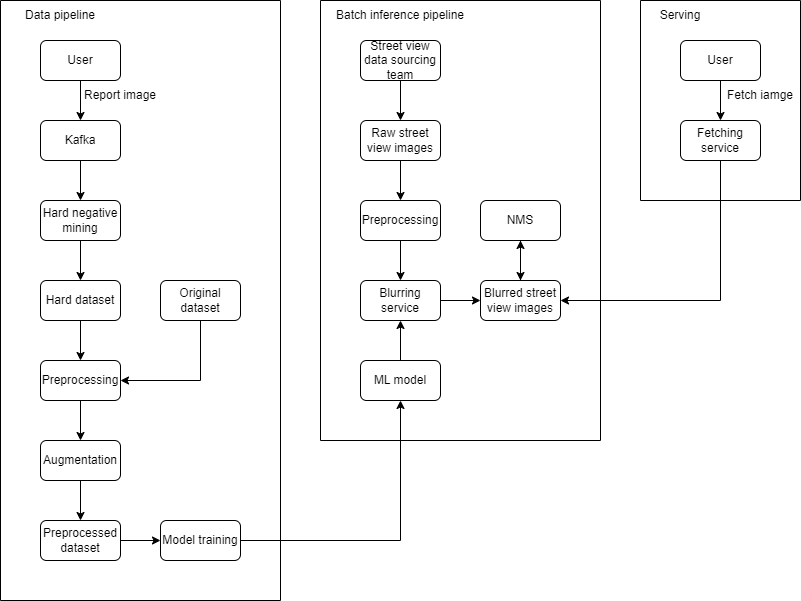
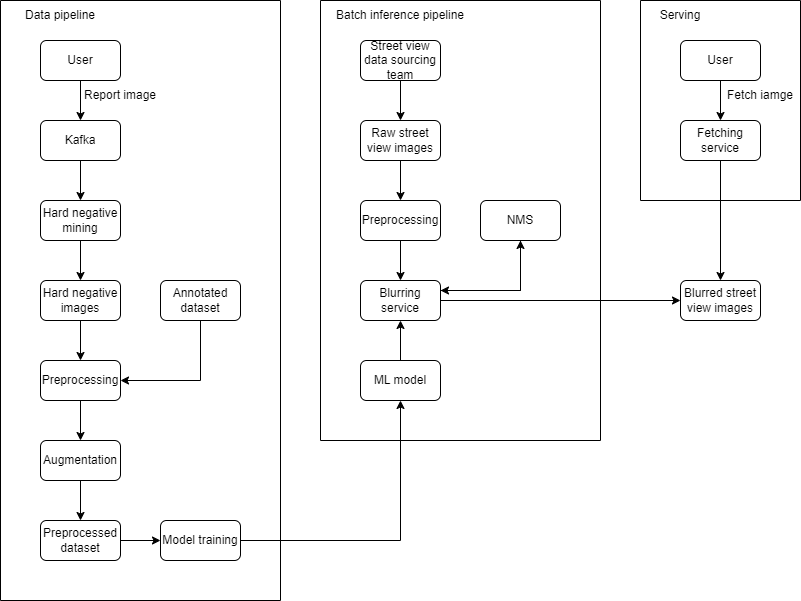
Update Model selection notes

diff --git a/machine-learning/2.1-google-street-view-blurring-system.html b/machine-learning/2.1-google-street-view-blurring-system.html
@@ -205,11 +205,13 @@
         </ul>
         <li>Region proposal network (RPN)</li>
         <ul>
+          <li>Regression task to detect objects</li>
           <li>Based on neural network</li>
           <li>Takes feature map and produces candidate regions in the image</li>
         </ul>
         <li>Classifier</li>
         <ul>
+          <li>Classification task to assign objects to classes</li>
           <li>Based on neural network</li>
           <li>Takes feature map and candidate regions, and assigns an object class to each region</li>
         </ul>
@@ -292,11 +294,14 @@
 
     <h3 class="card-title">Online</h3>
     <ul>
-      <li>Number of user reports</li>
-      <li>Human annotators to check the blurred images</li>
+      <li>Number of user reports and complaints</li>
+      <li>Human annotators to spot check the percentage of incorrectly blurred images</li>
     </ul>
 
     <h3 class="card-title">Business</h3>
+    <ul>
+      <li>Reduction in legal fees from people suing for copyright violations</li>
+    </ul>
   </div>
   <div class="card-footer text-muted">
     Reference: Machine Learning System Design Interview, Ali Aminian & Alex Xu
@@ -312,25 +317,6 @@
     <img class="img-fluid" class="card-img-top" src="/machine-learning/machine-learning-system-design/google-street-view-blurring-system1.png" alt="Card image cap">
 
     <ul>
-      <li>Batch inference pipeline</li>
-      <ul>
-        <li>Non-max suppression (NMS)</li>
-        <ul>
-          <li>Keep one bounding box out of many overlapping bounding boxes</li>
-        </ul>
-        <li>Preprocessing</li>
-        <ul>
-          <li>CPU intensive task</li>
-        </ul>
-        <li>Blurring service</li>
-        <ul>
-          <li>GPU intensive task</li>
-          <li>Identify all objects in the image</li>
-          <li>Resolve overlapping bounding boxes using NMS</li>
-          <li>Blur objects of interest</li>
-          <li>Store blurred images</li>
-        </ul>
-      </ul>
       <li>Data pipeline</li>
       <ul>
         <li>Hard negative mining</li>
@@ -343,9 +329,52 @@
           <li>Resize, scale, normalize</li>
         </ul>
       </ul>
+      <li>Batch inference pipeline</li>
+      <ul>
+        <li>Non-max suppression (NMS)</li>
+        <ul>
+          <li>Keep one bounding box out of many overlapping bounding boxes</li>
+        </ul>
+        <li>Preprocessing</li>
+        <ul>
+          <li>CPU intensive task</li>
+          <li>Seperated from blurring service</li>
+          <ul>
+            <li>CPU and GPU intensive tasks can be scaled independently</li>
+            <li>Better utilization of CPU and GPU</li>
+          </ul>
+        </ul>
+        <li>Blurring service</li>
+        <ul>
+          <li>GPU intensive task</li>
+          <li>Identify all objects in the image</li>
+          <li>Resolve overlapping bounding boxes using NMS</li>
+          <li>Blur objects of interest</li>
+          <li>Store blurred images in object storage</li>
+        </ul>
+      </ul>
     </ul>
 
     <h3 class="card-title">Workflow</h3>
+    <ul>
+      <li>Training images</li>
+        <ul>
+        <li>Hard negative images</li>
+        <ul>
+          <li>Images that users report are collected as training data</li>
+        </ul>
+        <li>Annotated dataset</li>
+        <ul>
+          <li>1M annotated dataset is used as training data</li>
+        </ul>
+        <li>Above images are preprocessed and augmented to generate more data</li>
+      </ul>
+      <li>Raw street images</li>
+      <ul>
+        <li>Raw street images are also preprocessed</li>
+        <li>Then, the images gets blurred and stored</li>
+      </ul>
+    </ul>
   </div>
   <div class="card-footer text-muted">
     Reference: Machine Learning System Design Interview, Ali Aminian & Alex Xu
